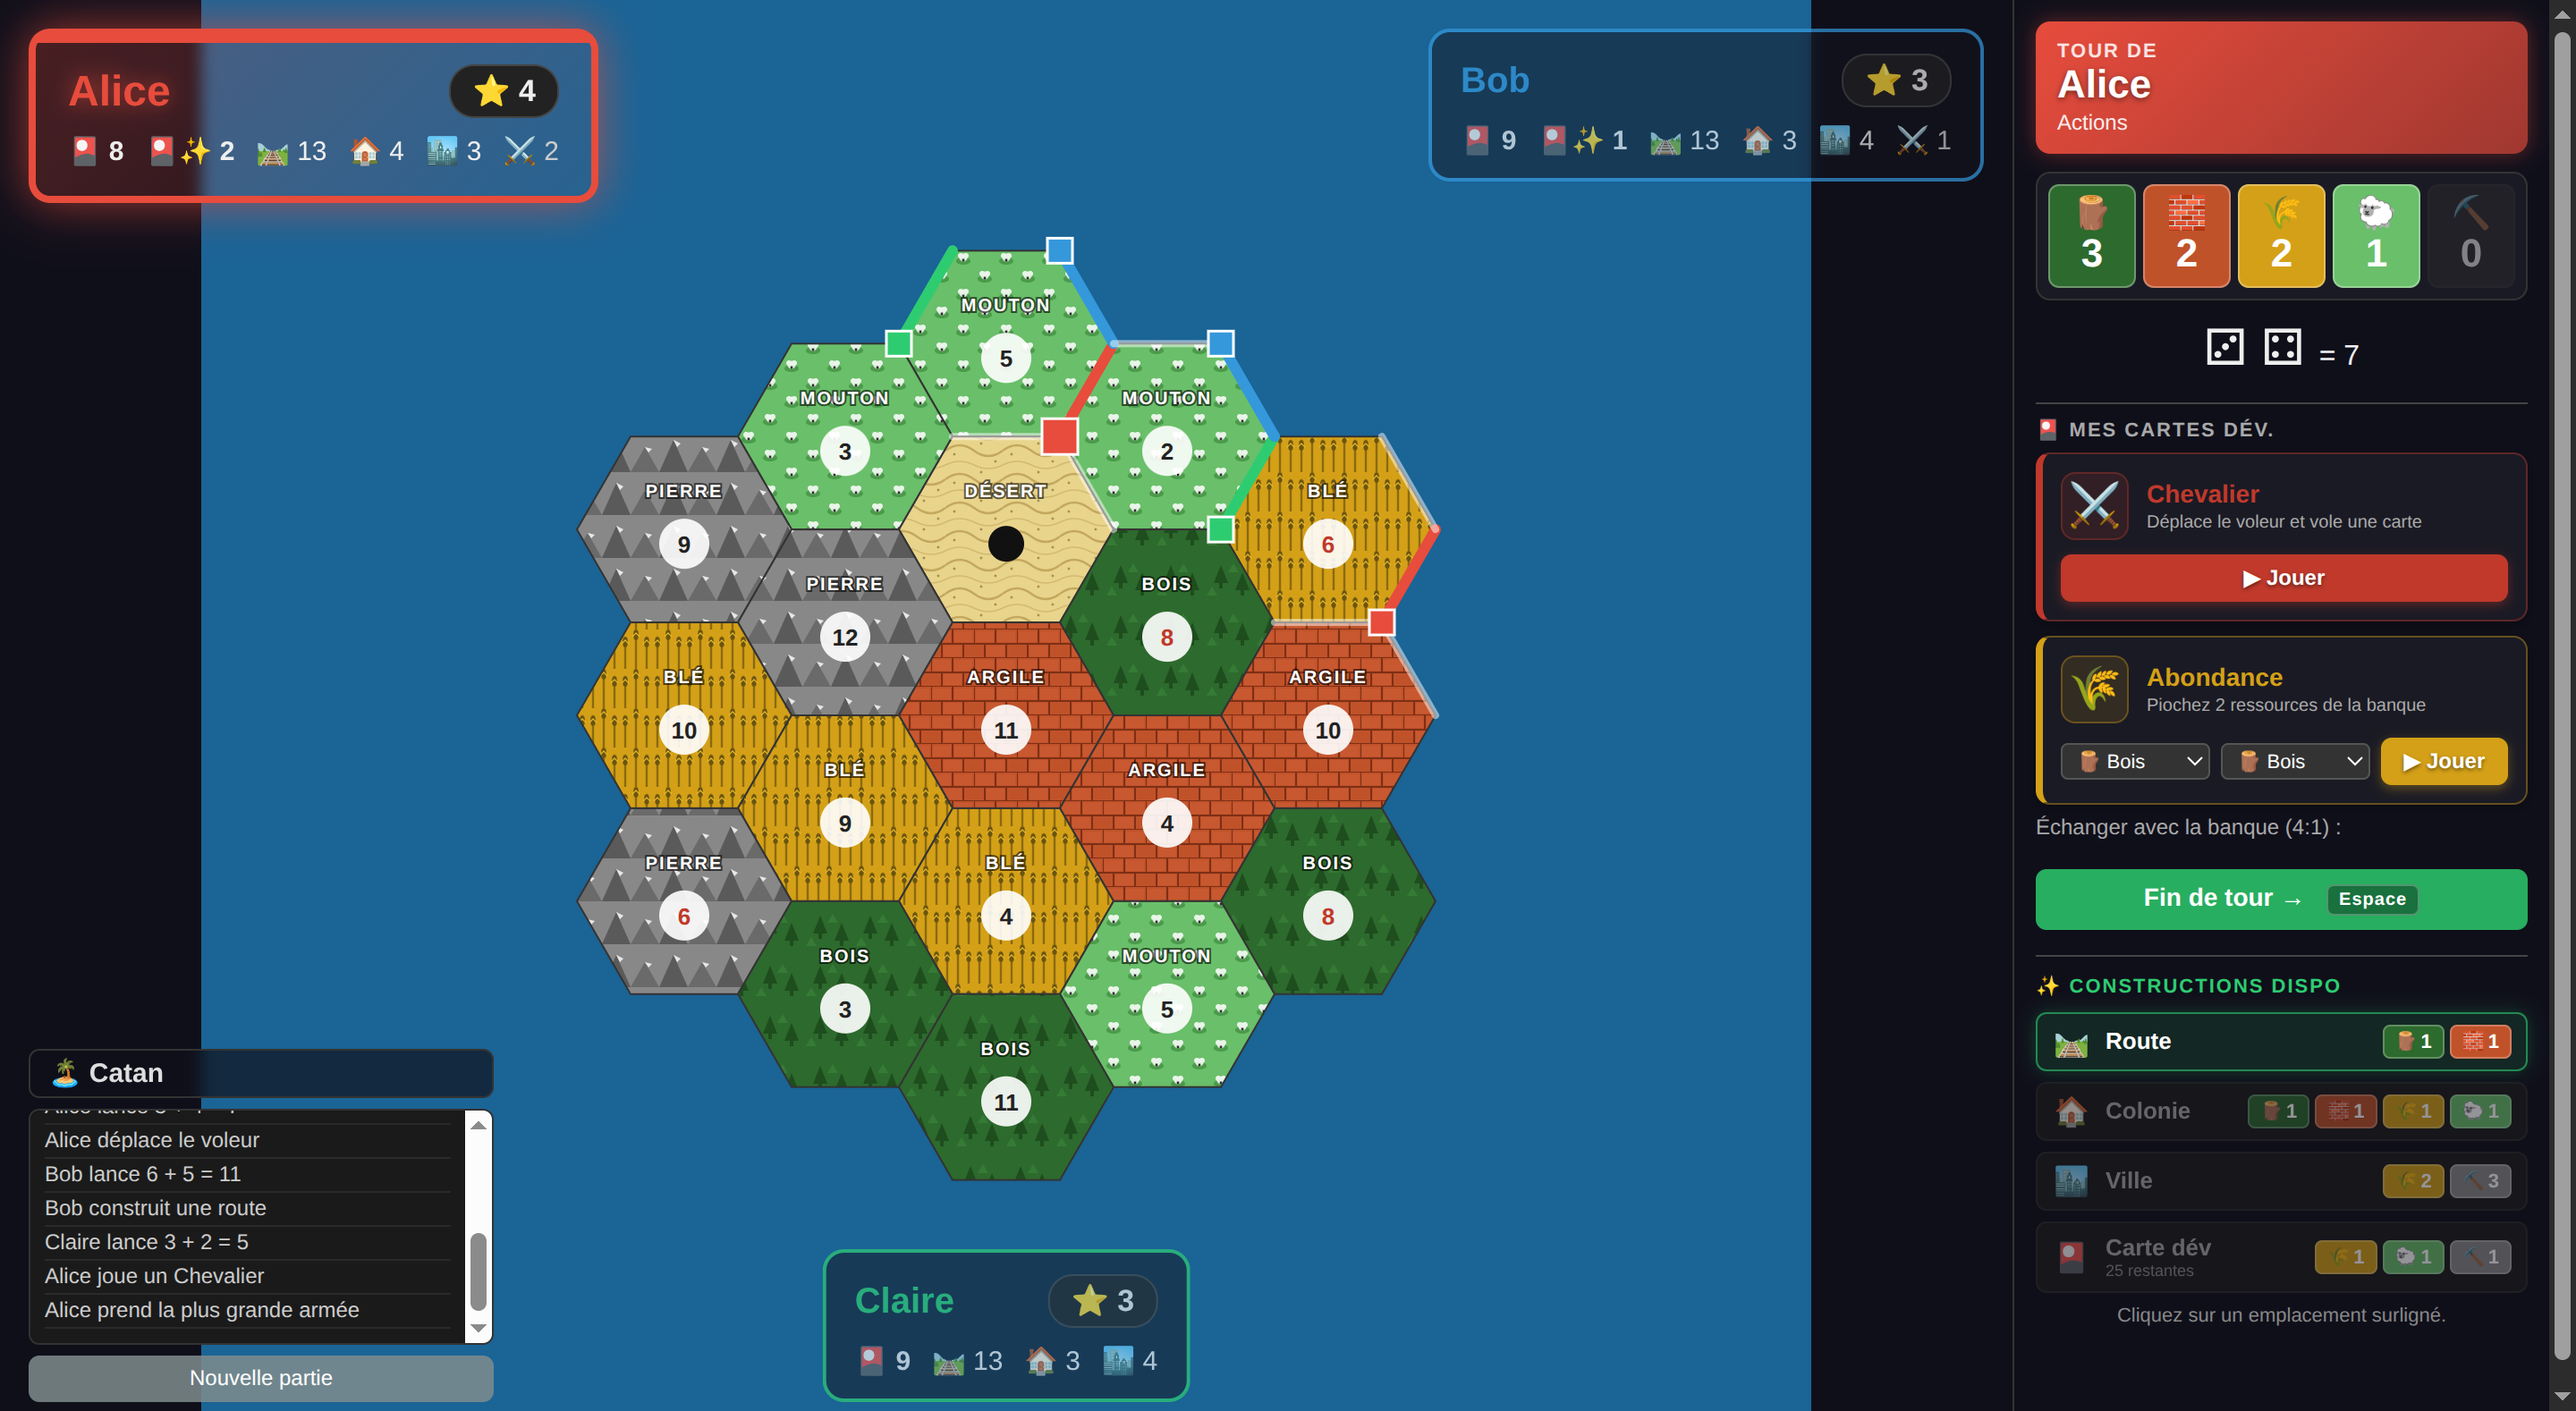
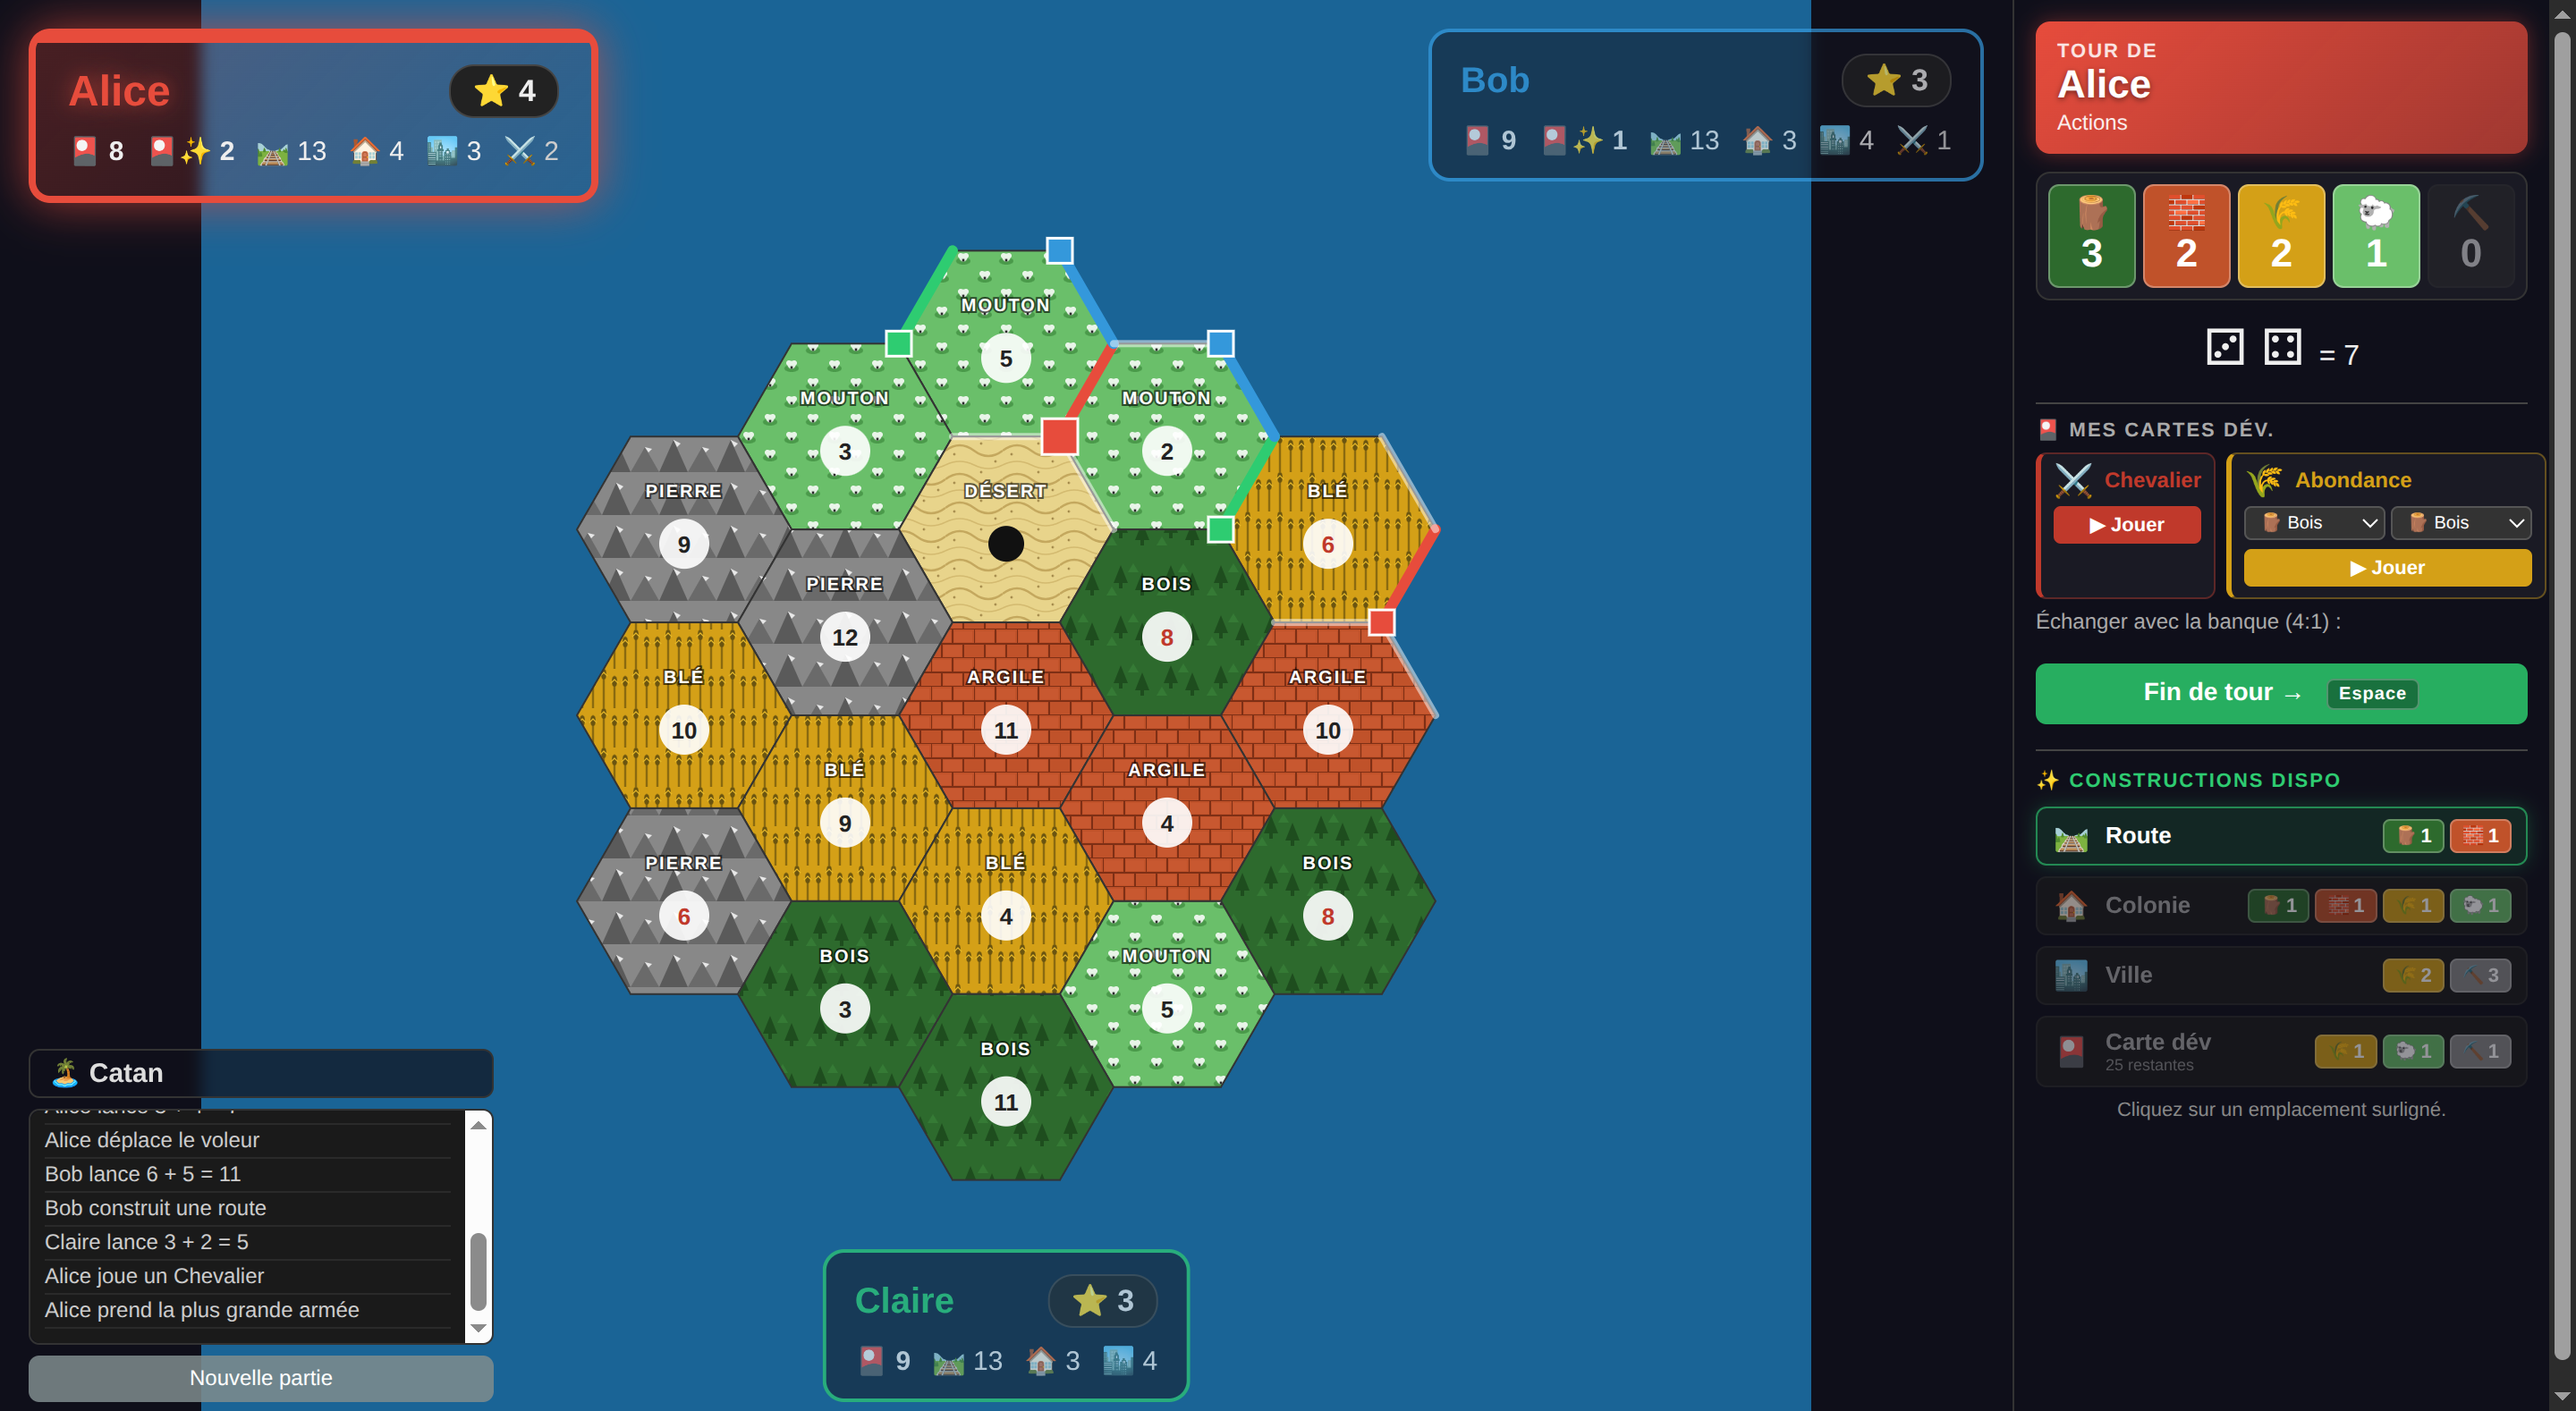
Cartes dév en grille 2 colonnes, plus compactes

Changed region(s): [[0.7812, 0.3105, 1.0, 0.9316], [0.875, 0.9316, 0.9062, 0.9626]]

diff --git a/src/components/Controls.tsx b/src/components/Controls.tsx
@@ -468,7 +468,7 @@ function DevCardsPanel({ state, dispatch }: { state: GameState; dispatch: (actio
         <div style={{ fontSize: 11, color: '#666', fontStyle: 'italic' }}>Aucune carte</div>
       )}
 
-      <div style={{ display: 'flex', flexDirection: 'column', gap: 8 }}>
+      <div style={{ display: 'grid', gridTemplateColumns: '1fr 1fr', gap: 6 }}>
         {playableKinds.map(kind => {
           const meta = DEV_META[kind]
           const count = playable[kind]
@@ -480,121 +480,72 @@ function DevCardsPanel({ state, dispatch }: { state: GameState; dispatch: (actio
             undefined
 
           return (
-            <div key={kind} style={{
+            <div key={kind} title={meta.desc} style={{
               position: 'relative',
               background: '#1a1a24',
               border: `1px solid ${meta.color}66`,
-              borderLeft: `4px solid ${meta.color}`,
-              borderRadius: 8,
-              overflow: 'hidden',
-              boxShadow: '0 2px 6px rgba(0,0,0,0.3)',
+              borderLeft: `3px solid ${meta.color}`,
+              borderRadius: 6,
+              padding: '6px 7px',
+              display: 'flex', flexDirection: 'column', gap: 5,
             }}>
               {count > 1 && (
                 <div style={{
-                  position: 'absolute', top: 6, right: 6,
+                  position: 'absolute', top: 3, right: 3,
                   background: meta.color, color: '#fff',
-                  borderRadius: 10, padding: '1px 7px',
-                  fontSize: 11, fontWeight: 'bold',
-                  zIndex: 2,
+                  borderRadius: 8, padding: '0 5px',
+                  fontSize: 10, fontWeight: 'bold',
                 }}>
                   ×{count}
                 </div>
               )}
 
-              <div style={{
-                padding: '10px 10px 8px',
-                display: 'flex', alignItems: 'center', gap: 10,
-              }}>
-                <div style={{
-                  fontSize: 24, lineHeight: 1,
-                  width: 38, height: 38,
-                  display: 'flex', alignItems: 'center', justifyContent: 'center',
-                  background: `${meta.color}22`,
-                  borderRadius: 8,
-                  border: `1px solid ${meta.color}55`,
-                }}>
-                  {meta.icon}
-                </div>
-                <div style={{ flex: 1 }}>
-                  <div style={{ fontSize: 14, fontWeight: 'bold', color: meta.color }}>
-                    {meta.label}
-                  </div>
-                  <div style={{ fontSize: 10, color: '#aaa', marginTop: 2 }}>
-                    {meta.desc}
-                  </div>
-                </div>
+              <div style={{ display: 'flex', alignItems: 'center', gap: 6 }}>
+                <span style={{ fontSize: 18, lineHeight: 1 }}>{meta.icon}</span>
+                <span style={{ fontSize: 12, fontWeight: 'bold', color: meta.color }}>
+                  {meta.label}
+                </span>
               </div>
 
-              <div style={{ padding: '0 10px 10px', display: 'flex', gap: 6, alignItems: 'center' }}>
-                {kind === 'year_of_plenty' && (
-                  <>
-                    <ResourceSelect value={yopR1} onChange={setYopR1} />
-                    <ResourceSelect value={yopR2} onChange={setYopR2} />
-                  </>
-                )}
-                {kind === 'monopoly' && <ResourceSelect value={monoRes} onChange={setMonoRes} />}
-                <button
-                  disabled={!canPlayDev || !playAction}
-                  onClick={playAction}
-                  style={{
-                    flex: 1,
-                    background: canPlayDev ? meta.color : '#333',
-                    color: '#fff', border: 'none', borderRadius: 6,
-                    padding: '6px 10px', fontSize: 12, fontWeight: 'bold',
-                    cursor: canPlayDev ? 'pointer' : 'not-allowed',
-                    opacity: canPlayDev ? 1 : 0.5,
-                    textShadow: '0 1px 2px rgba(0,0,0,0.5)',
-                    boxShadow: canPlayDev ? `0 2px 6px ${meta.color}66` : undefined,
-                  }}
-                >
-                  ▶ Jouer
-                </button>
-              </div>
+              {kind === 'year_of_plenty' && (
+                <div style={{ display: 'flex', gap: 3 }}>
+                  <ResourceSelect value={yopR1} onChange={setYopR1} />
+                  <ResourceSelect value={yopR2} onChange={setYopR2} />
+                </div>
+              )}
+              {kind === 'monopoly' && <ResourceSelect value={monoRes} onChange={setMonoRes} />}
+              <button
+                disabled={!canPlayDev || !playAction}
+                onClick={playAction}
+                style={{
+                  background: canPlayDev ? meta.color : '#333',
+                  color: '#fff', border: 'none', borderRadius: 4,
+                  padding: '4px 6px', fontSize: 11, fontWeight: 'bold',
+                  cursor: canPlayDev ? 'pointer' : 'not-allowed',
+                  opacity: canPlayDev ? 1 : 0.5,
+                }}
+              >
+                ▶ Jouer
+              </button>
             </div>
           )
         })}
 
         {/* Carte Point de Victoire (auto) */}
         {playable.vp > 0 && (
-          <div style={{
+          <div title="Compté automatiquement dans vos PV" style={{
             position: 'relative',
             background: '#1a1a24',
             border: `1px solid ${DEV_META.vp.color}66`,
-            borderLeft: `4px solid ${DEV_META.vp.color}`,
-            borderRadius: 8,
-            overflow: 'hidden',
-            boxShadow: '0 2px 6px rgba(0,0,0,0.3)',
+            borderLeft: `3px solid ${DEV_META.vp.color}`,
+            borderRadius: 6,
+            padding: '6px 7px',
+            display: 'flex', alignItems: 'center', gap: 6,
           }}>
-            {playable.vp > 1 && (
-              <div style={{
-                position: 'absolute', top: 6, right: 6,
-                background: DEV_META.vp.color, color: '#000',
-                borderRadius: 10, padding: '1px 7px',
-                fontSize: 11, fontWeight: 'bold',
-              }}>
-                ×{playable.vp}
-              </div>
-            )}
-            <div style={{ padding: '10px', display: 'flex', alignItems: 'center', gap: 10 }}>
-              <div style={{
-                fontSize: 24, lineHeight: 1,
-                width: 38, height: 38,
-                display: 'flex', alignItems: 'center', justifyContent: 'center',
-                background: `${DEV_META.vp.color}22`,
-                borderRadius: 8,
-                border: `1px solid ${DEV_META.vp.color}55`,
-              }}>
-                ⭐
-              </div>
-              <div style={{ flex: 1 }}>
-                <div style={{ fontSize: 14, fontWeight: 'bold', color: DEV_META.vp.color }}>
-                  Point{playable.vp > 1 ? 's' : ''} de Victoire
-                </div>
-                <div style={{ fontSize: 10, color: '#aaa', marginTop: 2 }}>
-                  Compté{playable.vp > 1 ? 's' : ''} automatiquement dans vos PV
-                </div>
-              </div>
-            </div>
+            <span style={{ fontSize: 18, lineHeight: 1 }}>⭐</span>
+            <span style={{ fontSize: 12, fontWeight: 'bold', color: DEV_META.vp.color }}>
+              {playable.vp > 1 ? `${playable.vp} PV` : 'Point de Victoire'}
+            </span>
           </div>
         )}
 
@@ -603,43 +554,30 @@ function DevCardsPanel({ state, dispatch }: { state: GameState; dispatch: (actio
           const meta = DEV_META[kind]
           const count = newByKind[kind]
           return (
-            <div key={`new-${kind}`} style={{
+            <div key={`new-${kind}`} title="Achetée ce tour · jouable au tour suivant" style={{
               position: 'relative',
-              background: 'repeating-linear-gradient(45deg, #1e1e2a, #1e1e2a 8px, #282838 8px, #282838 16px)',
-              border: `2px dashed ${meta.color}aa`,
-              borderRadius: 10,
-              padding: '10px',
-              display: 'flex', alignItems: 'center', gap: 10,
-              opacity: 0.85,
+              background: 'repeating-linear-gradient(45deg, #1e1e2a, #1e1e2a 6px, #282838 6px, #282838 12px)',
+              border: `1px dashed ${meta.color}88`,
+              borderRadius: 6,
+              padding: '6px 7px',
+              display: 'flex', alignItems: 'center', gap: 6,
+              opacity: 0.75,
             }}>
               {count > 1 && (
                 <div style={{
-                  position: 'absolute', top: 6, right: 6,
+                  position: 'absolute', top: 3, right: 3,
                   background: '#000', color: '#fff',
-                  borderRadius: 12, padding: '2px 8px',
-                  fontSize: 11, fontWeight: 'bold',
+                  borderRadius: 8, padding: '0 5px',
+                  fontSize: 10, fontWeight: 'bold',
                   border: `1px solid ${meta.color}`,
                 }}>
                   ×{count}
                 </div>
               )}
-              <div style={{
-                fontSize: 22, width: 44, height: 44,
-                display: 'flex', alignItems: 'center', justifyContent: 'center',
-                background: '#0f0f1a', borderRadius: 8,
-                border: `1px solid ${meta.color}66`,
-                filter: 'grayscale(0.6)',
-              }}>
-                🕒
-              </div>
-              <div style={{ flex: 1 }}>
-                <div style={{ fontSize: 13, fontWeight: 'bold', color: '#ddd' }}>
-                  {meta.icon} {meta.label}
-                </div>
-                <div style={{ fontSize: 10, color: '#888', fontStyle: 'italic', marginTop: 2 }}>
-                  Achetée ce tour · jouable au tour suivant
-                </div>
-              </div>
+              <span style={{ fontSize: 16 }}>🕒</span>
+              <span style={{ fontSize: 11, fontWeight: 'bold', color: '#aaa' }}>
+                {meta.icon} {meta.label}
+              </span>
             </div>
           )
         })}
@@ -665,7 +603,7 @@ function ResourceSelect({ value, onChange }: { value: Resource; onChange: (r: Re
     <select
       value={value}
       onChange={e => onChange(e.target.value as Resource)}
-      style={{ background: '#333', color: '#fff', border: '1px solid #555', borderRadius: 4, padding: '2px 4px', fontSize: 11 }}
+      style={{ flex: 1, minWidth: 0, background: '#333', color: '#fff', border: '1px solid #555', borderRadius: 4, padding: '2px 4px', fontSize: 10 }}
     >
       <option value="wood">🪵 Bois</option>
       <option value="brick">🧱 Argile</option>
